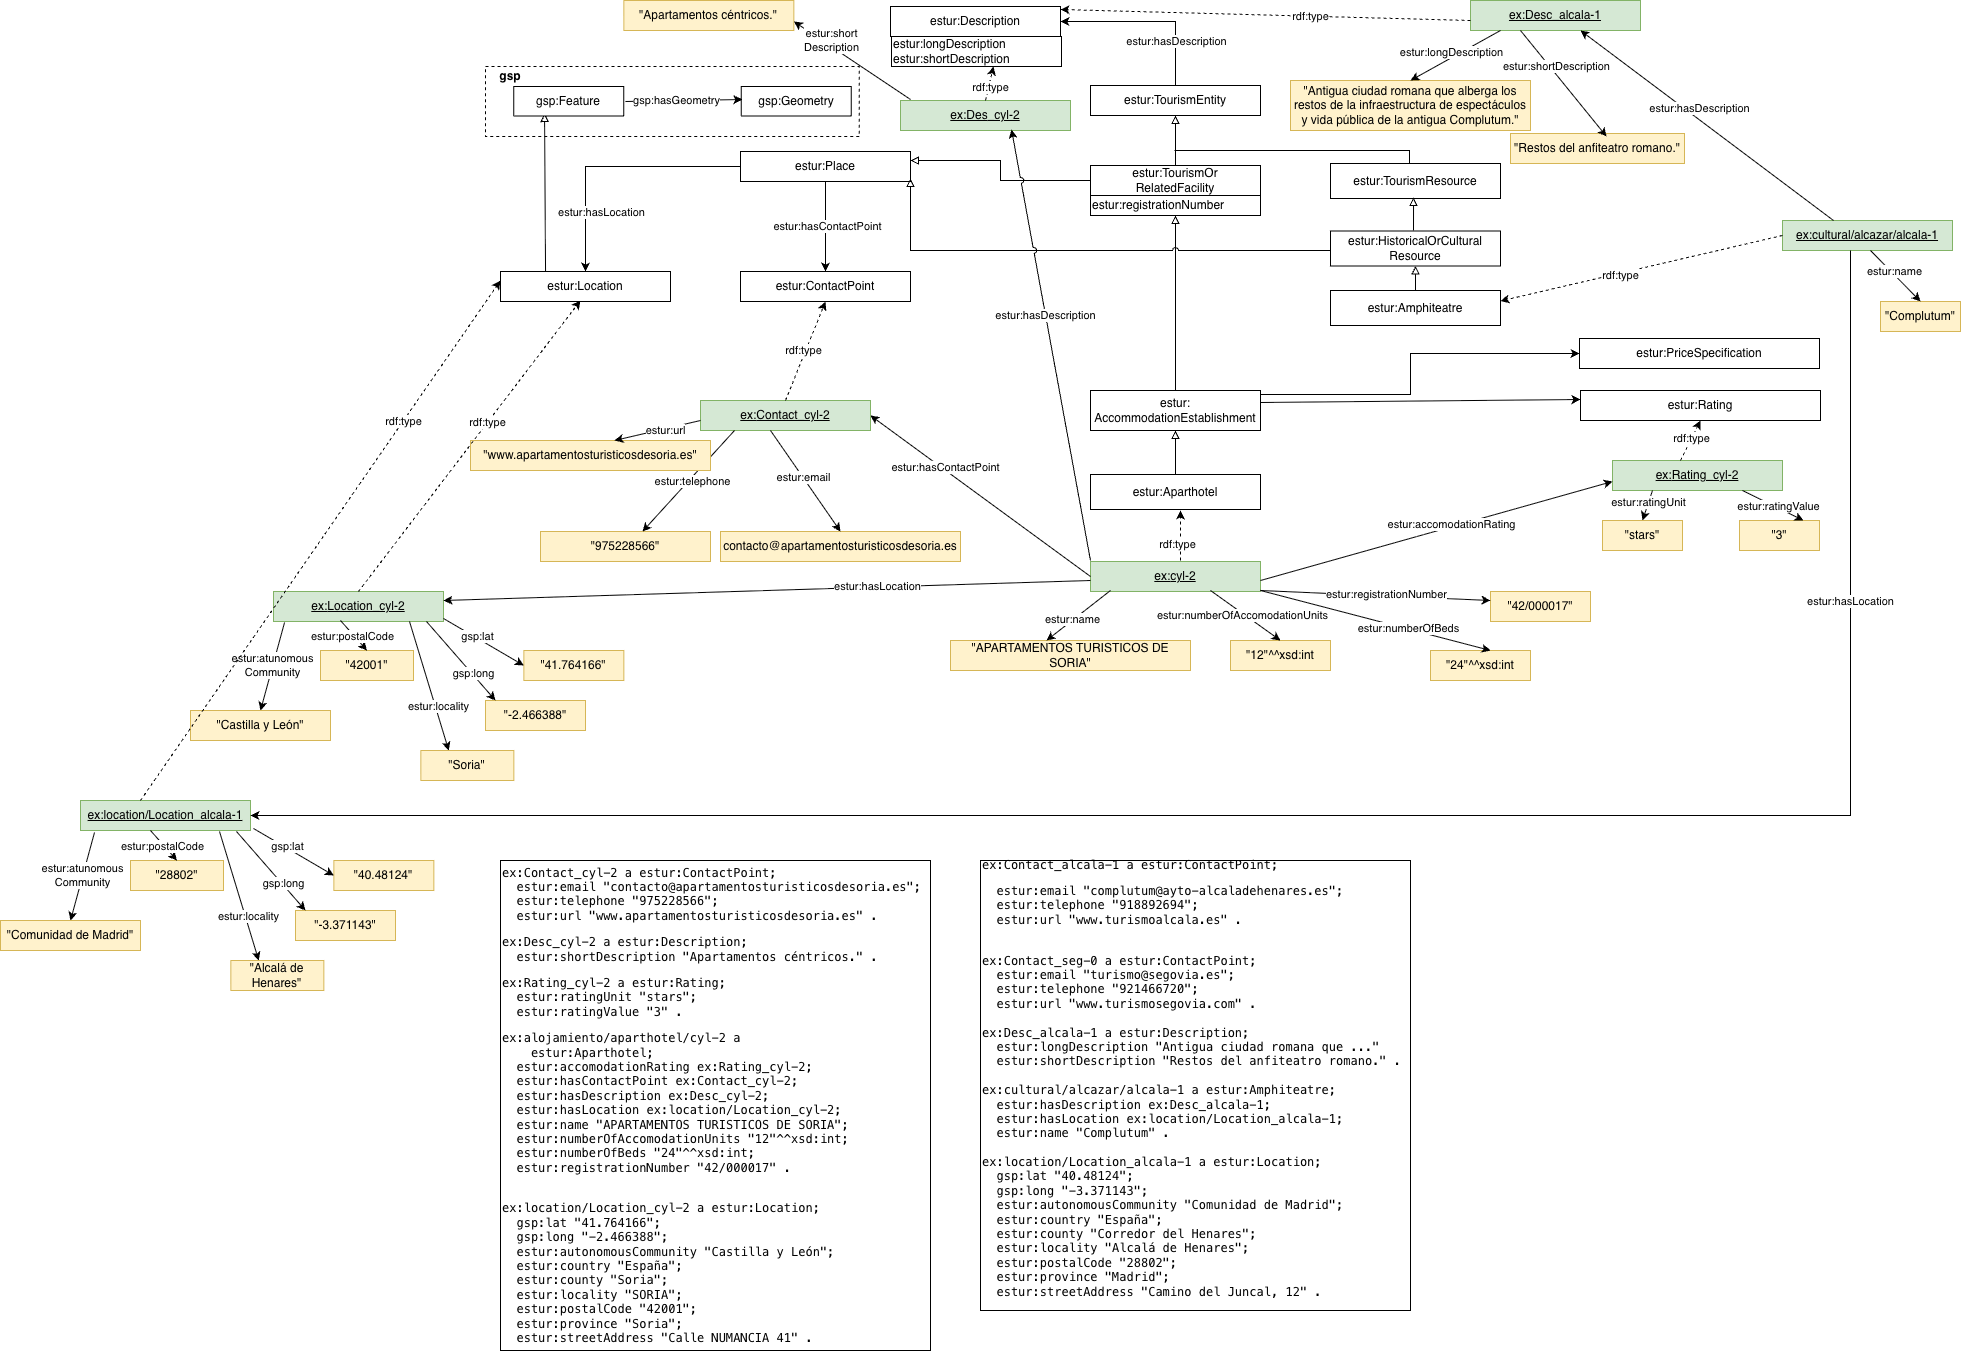
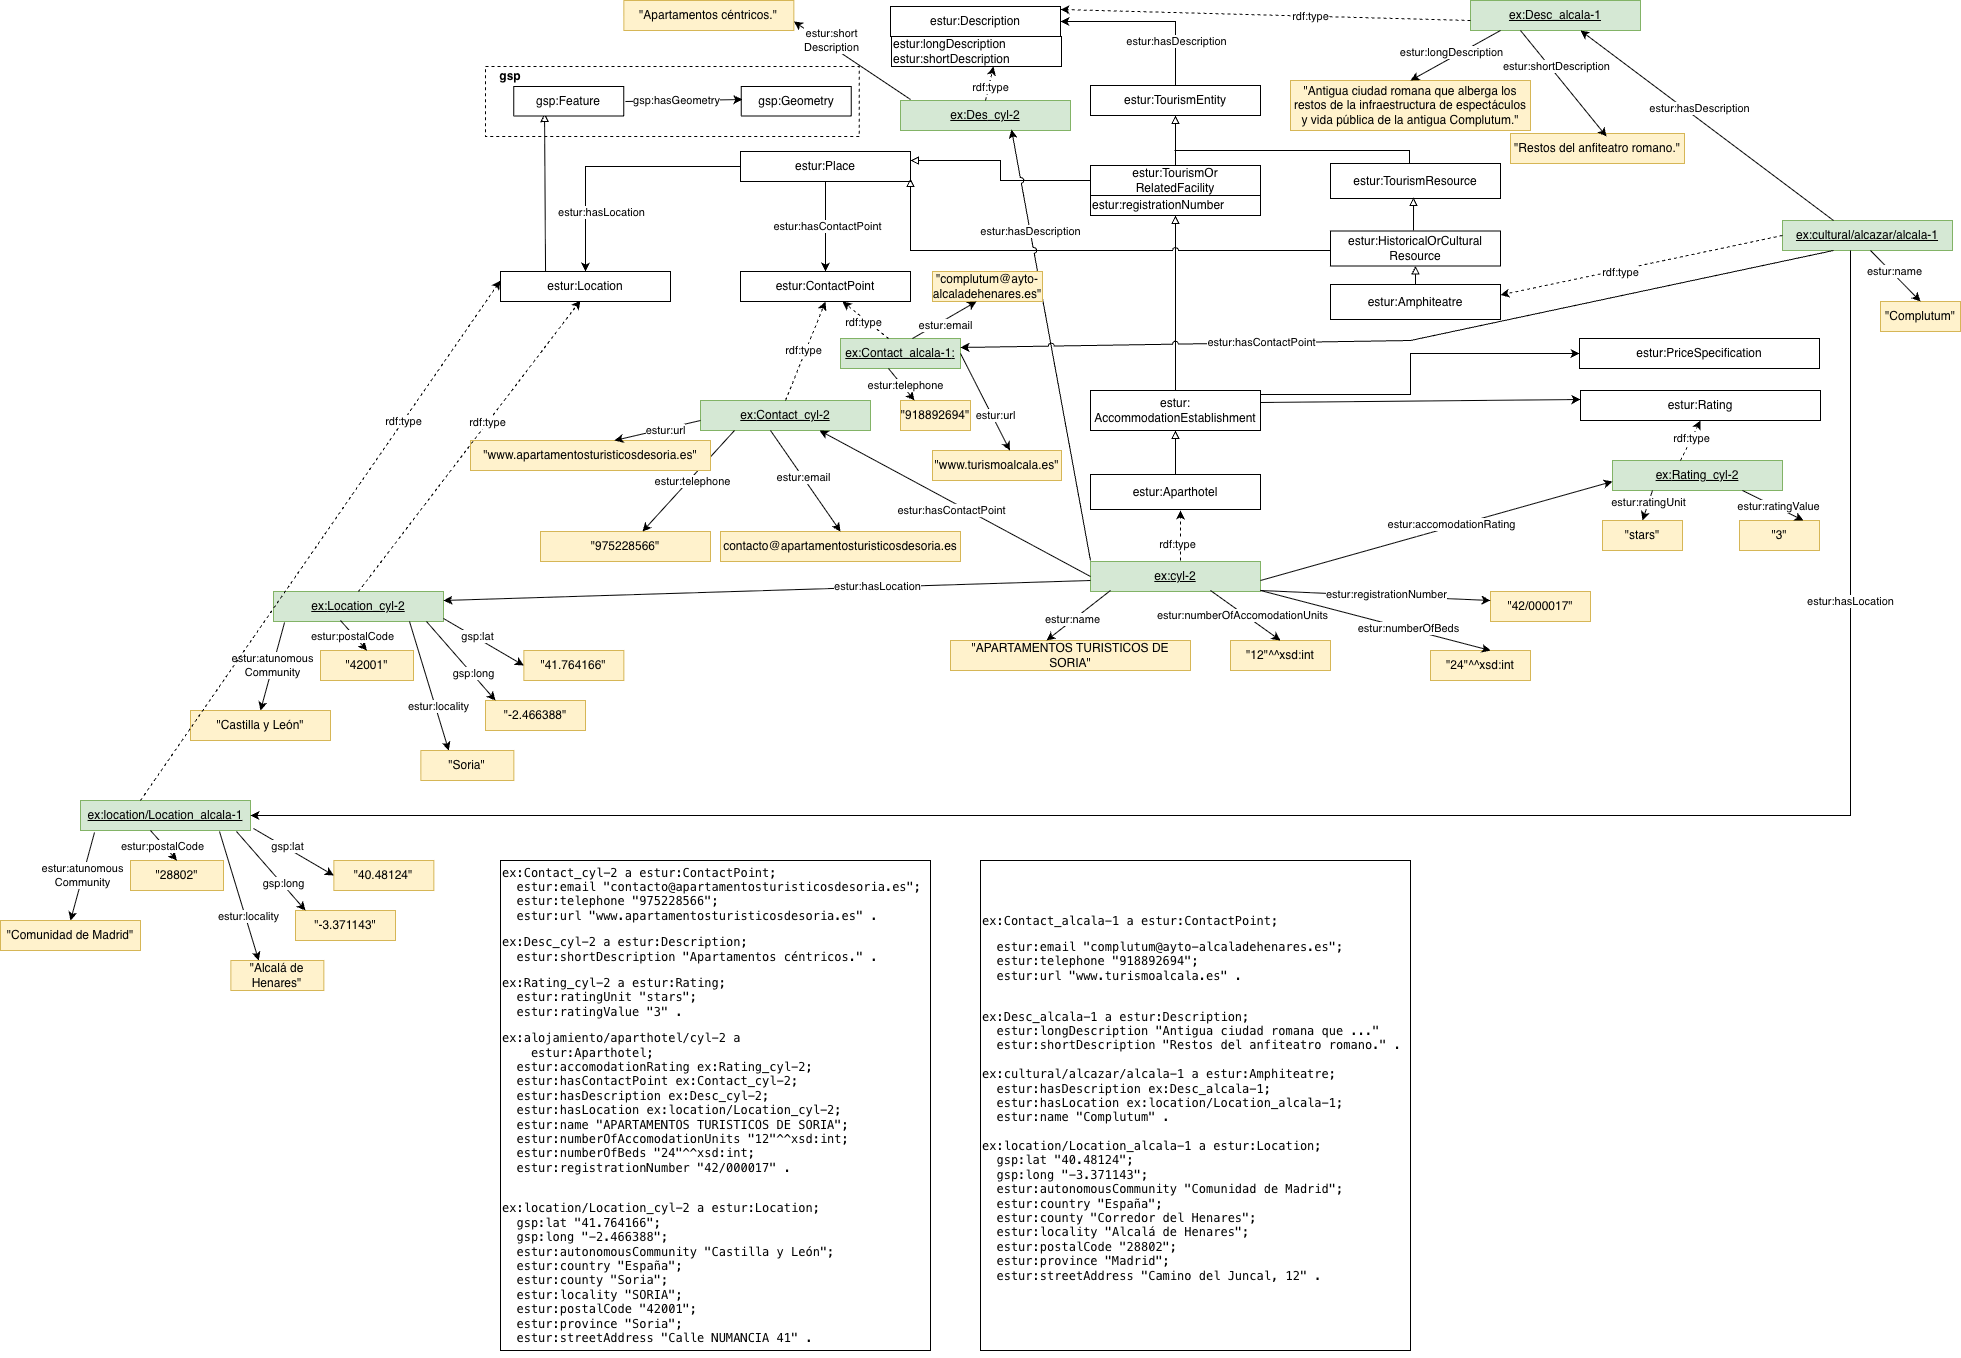
Desarrollo de descripción HTML
Se agregaron diagramas y descripción detallada a la documentación HTML

diff --git a/documentation/sections/description-es.html b/documentation/sections/description-es.html
@@ -1,2 +1,80 @@
 <h2 id="desc" class="list">Turismo: Descripci&oacute;n <span class="backlink"> volver a <a href="#toc">&iacute;ndice</a></span></h2>
-<span class="markdown">Ontología para la representación de alojamientos y puntos de interés turísticos de un municipio, que reutiliza clases y propiedades de la ontología SEGITTUR. Cubre establecimientos de alojamiento (hoteles, hostales, aparthoteles, alquileres vacacionales) con su categoría, unidades y localización, así como recursos históricos y culturales. Su propósito es proporcionar un vocabulario común para conocer y gestionar el turismo municipal, como base para su explotación a través de la Ontología de Cubos de Turismo. Los ejemplos del repositorio instancian establecimientos de alojamiento (<code>estur:AccomodationEstablishment</code> y sus subclases Hotel, Hostal, Hostel, Aparthotel y Vacation Rentals) con su categoría (<code>accomodationRating</code>), número de unidades y de plazas, número de registro, descripción, localización y punto de contacto, reutilizando las clases y propiedades de la ontología de turismo de SEGITTUR.</span>
+<span class="markdown"><p>
+Una descripción más detallada de las clases y propiedades  de la Ontología de Turismo de SEGITTUR que se han identificado para ser reutilizadas en el dominio de turismo para ciudades es la siguiente:</p>
+<ul>
+<li>Clase <code>AccomodationEstablishment</code>
+Los tipos de alojamiento son subclases: Hotel, Hostal, Hostel, Aparthotel, Vacation Rentals
+<ul>
+<li><code>AccomodationRating</code> (object property) entre un alojamiento y su clasificación</li>
+<li><code>numberOfAccomodationUnits</code> (data property). Cantidad de unidades de alojamiento, por ejemplo habitaciones</li>
+<li><code>numberOfBeds</code> (data property). Número total de camas</li>
+<li><code>registrationNumber</code> (data property). Identificador</li>
+<li><code>hasDescription</code> (object property) entre una entidad de turismo (superclase) y su description</li>
+<li><code>name</code> (data property) </li>
+<li><code>hasLocation</code> (object property) entre un lugar (superclase) y su ubicación </li>
+<li><code>hasContactPoint</code> (object property) entre un lugar (superclase) y su contacto</li>
+</ul>
+</li>
+<li>Clase <code>ContactPoint</code>
+	Contacto con el alojamiento que puede ser por correo electrónico, teléfono o una web
+	<ul>
+<li><code>email</code> (data property)</li>
+<li><code>telephone</code> (data property)</li>
+<li><code>url</code> (data property)</li>
+</ul>
+</li>
+
+<li>Clase <code>Rating</code>
+	Clasificación del alojamiento
+<ul>
+<li><code>ratingUnit</code> (data property). Unidad de la clasificación, por ejemplo "stars"</li>
+<li><code>ratingValue</code> (data property). Valor de la clasificación, por ejemplo "3"</li>
+</ul>
+</li>
+
+<li>Clase <code>Description</code>
+	Descripción corta o larga del alojamiento
+<ul>
+<li><code>longDescription</code> (data property)</li>
+<li><code>shortDescription</code> (data property)</li>
+</ul>
+</li>
+
+<li>Clase <code>Location</code>
+	Ubicación del alojamiento
+<ul>
+<li><code>autonomousCommunity</code> (data property)</li>
+<li><code>country</code> (data property)</li>
+<li><code>county</code> (data property). Comarca</li>
+<li><code>province</code> (data property)</li>
+<li><code>locality</code> (data property) </li>
+<li><code>postal code</code> (data property)</li>
+<li><code>street address</code> (data property)</li> 
+<li><code>gsp:lat</code> y <code>gsp:long</code>. Por ser subclase de <code>gsp:Feature</code> se representa las coordenadas, latitud y longitud del alojamiento</li>
+</ul>
+</li>
+
+<li>Clase <code>HistoricalOrCulturalResource</code>
+Recurso histórico o cultural. Los tipos de recurso son subclases: Alcazar, Amphiteatre, Acueduct, etc. 
+<ul>
+<li><code>name</code> (data property)</li>
+<li><code>hasLocation</code> (object property) entre un lugar (superclase) y su ubicación</li>
+<li><code>hasDescription</code> (object property) entre una entidad de turismo (superclase) y su descripción</li>
+</ul>
+</li>
+</ul>
+<span class="markdown"><p>En la Figura 1 se ilustra de forma gráfica los conceptos de la ontología de SEGITTUR que se han reutilizado:</p>
+<p><center><img src="images/diagrama-conceptual.png"/><figcaption>
+Figura 1. Modelo conceptual de la ontología</figcaption></center></p>
+<p>Uno de los conceptos centrales es  <code>estur:AccomodationEstablishment</code> (establecimiento para alojamiento), que se relaciona con otras clases tales como  <code>estur:ContactPoint</code> y <code>estur:Location</code> (al ser subclase de <code>estur:Place</code>). La clase <code>estur:Location</code> representa la ubicación del alojamiento especificada a través de su latitud, longitud, país, provincia, localidad, código postal y dirección.</p>
+
+<p>También se relaciona con <code>estur:Description</code> (al ser subclase de <code>estur:TourismEntity</code>) . La clase se relaciona con <code>estur:Rating</code> para indicar la clasificación del establecimiento en alguna unidad de medida, por ejemplo "Estrellas" y con <code>estur:PriceSpecification</code> (especificación del precio). Además tiene propiedades que se relacionan con taxonomías SKOS: <code>estur-kos:AccomodationCategory</code> (categoría de alojamiento), <code>estur-kos:typeOfAccomodationRate</code> (tipo de tarifa de alojamiento), <code>estur-kos:OffersAdditionalAccomodationService</code> (ofrece servicio adicional) y <code>estur:PriceClass</code> (categoría de precio).</p>
+
+<p>Un concepto relevante para el turismo de ciudades es el de <code>estur:HistoricalOrCulturalResource</code> (recurso histórico o cultural) que comprende los museos, monumentos, santuarios, entre otros. Es subclase de <code>estur:Place</code> por lo cual se relaciona con <code>estur:ContactPoint</code> y con <code>estur:Location</code> y también se representa su <code>estur:Description</code> al ser un tipo de <code>estur:TourismEntity</code>.
+<p>En la Figura 2 se muestran ejemplos de instancias de alojamiento y de recursos históricos o culturales, y su relaciòn con los conceptos de la ontología de SEGITTUR:</p>
+<p><center><img src="images/diagrama-ejemplos.png"/><figcaption>
+	<figcaption>Figura 2. Ejemplo de utilización de los conceptos de la Ontología de Turismo SEGITTUR</figcaption></center></p>
+	<p>Este ejemplo ilustra la utilización de la Ontología de Turismo SEGITTUR para el dominio de turismo de ciudades. Se tiene un <code>estur:AccomodationEstablishment</code> (establecimiento) con identificador "cyl-2". Este alojamiento tiene un <code>estur:ContactPoint</code> con identificador "Contact_cyl-2" y con sus propiedades de correo electrónico, url y teléfono. Tiene una <code>estur:Description</code> con una descripción corta "Apartamentos céntricos". Se relaciona con una ubicación <code>estur:Location</code> con propiedades que representan la población, "Soria", el código postal, la comunidad autónoma de "Castilla y León" y sus coordenadas de latitud y longitud.</p>
+	<p>En el diagrama se representa de forma similar al alojamiento "alcala-1", una instancia de <code>estur:HistoricalOrCulturalResource</code> (recurso histórico o cultural) que es un anfiteatro situado en Alcalá de Henares con nombre "Complutum".
+</p>
+</span>

diff --git a/documentation/sections/description-en.html b/documentation/sections/description-en.html
@@ -1,2 +1,80 @@
 <h2 id="desc" class="list">Tourism: Description <span class="backlink"> back to <a href="#toc">ToC</a></span></h2>
-<span class="markdown">Ontology for representing tourist accommodation and points of interest in a municipality, reusing classes and properties from the SEGITTUR ontology. It covers accommodation establishments (hotels, guesthouses, aparthotels, holiday rentals) with their category, units and location, as well as historical and cultural resources. The repository examples instantiate accommodation establishments (<code>estur:AccomodationEstablishment</code> and its subclasses Hotel, Hostal, Hostel, Aparthotel and Vacation Rentals) with their rating (<code>accomodationRating</code>), number of units and beds, registration number, description, location and contact point, reusing the classes and properties of the SEGITTUR tourism ontology.</span>
+<span class="markdown"><p>
+A more detailed description of the classes and properties of the SEGITTUR Tourism Ontology identified for reuse in the city tourism domain follows:</p>
+<ul>
+<li>Class <code>AccommodationEstablishment</code>
+Accommodation types are subclasses: Hotel, Hostal, Hostel, Aparthotel, Vacation Rentals
+<ul>
+<li><code>AccommodationRating</code> (object property) between an accommodation and its rating</li>
+<li><code>numberOfAccommodationUnits</code> (data property). Quantity of accommodation units, e.g., rooms</li>
+<li><code>numberOfBeds</code> (data property). Total number of beds</li>
+<li><code>registrationNumber</code> (data property). Identifier</li>
+<li><code>hasDescription</code> (object property) between a tourism entity (superclass) and its description</li>
+<li><code>name</code> (data property) </li>
+<li><code>hasLocation</code> (object property) between a place (superclass) and its location </li>
+<li><code>hasContactPoint</code> (object property) between a place (superclass) and its contact point</li>
+</ul>
+</li>
+<li>Class <code>ContactPoint</code>
+Contact details for the accommodation, which may include email, telephone, or a website
+<ul>
+<li><code>email</code> (data property)</li>
+<li><code>telephone</code> (data property)</li>
+<li><code>url</code> (data property)</li>
+</ul>
+</li>
+
+<li>Class <code>Rating</code>
+Accommodation rating
+<ul>
+<li><code>ratingUnit</code> (data property). Rating unit, e.g., "stars"</li>
+<li><code>ratingValue</code> (data property). Rating value, for example "3"</li>
+</ul>
+</li>
+
+<li>Class <code>Description</code> 
+Short or long description of the accommodation
+<ul>
+<li><code>longDescription</code> (data property)</li>
+<li><code>shortDescription</code> (data property)</li>
+</ul>
+</li>
+
+<li>Class <code>Location</code> 
+Accommodation location
+<ul>
+<li><code>autonomousCommunity</code> (data property)</li>
+<li><code>country</code> (data property)</li>
+<li><code>county</code> (data property)</li>
+<li><code>province</code> (data property)</li>
+<li><code>locality</code> (data property) </li>
+<li><code>postal code</code> (data property)</li>
+<li><code>street address</code> (data property)</li>
+<li><code>gsp:lat</code> and <code>gsp:long</code>. Because it is a subclass of <code>gsp:Feature</code>, the coordinates, latitude and longitude of the accommodation are represented</li>
+</ul>
+</li>
+
+<li>Class <code>HistoricalOrCulturalResource</code>
+Historical or cultural resource. The resource types are subclasses: Alcazar, Amphitheater, Acueduct, etc.
+<ul>
+<li><code>name</code> (data property)</li>
+<li><code>hasLocation</code> (object property) between a place (superclass) and its location</li>
+<li><code>hasDescription</code> (object property) between a tourism entity (superclass) and its description</li>
+</ul>
+</li>
+</ul>
+<span class="markdown"><p>Figure 1 graphically illustrates the concepts from the SEGITTUR ontology that have been reused:</p>
+<p><center><img src="images/diagrama-conceptual.png"/><figcaption>
+Figure 1. Conceptual model of the ontology</figcaption></center></p>
+<p>One of the central concepts is <code>estur:AccommodationEstablishment</code>, which relates to other classes such as <code>estur:ContactPoint</code> and <code>estur:Location</code> (as it is a subclass of <code>estur:Place</code>). The <code>estur:Location</code> class represents the accommodation's location, specified via its latitude, longitude, country, province, locality, postal code, and address.</p>
+
+<p>It also relates to <code>estur:Description</code> (as it is a subclass of <code>estur:TourismEntity</code>). The class relates to <code>estur:Rating</code> to indicate the establishment's classification in a specific unit of measurement—for example, "Stars"—and to <code>estur:PriceSpecification</code>.</p> It also possesses properties linked to SKOS taxonomies: <code>estur-kos:AccomodationCategory</code> (accommodation category), <code>estur-kos:typeOfAccomodationRate</code> (accommodation rate type), <code>estur-kos:OffersAdditionalAccomodationService</code> (offers additional service), and <code>estur:PriceClass</code> (price category).</p>
+
+<p>A concept relevant to city tourism is <code>estur:HistoricalOrCulturalResource</code> (historical or cultural resource), which encompasses museums, monuments, and shrines, among others. It is a subclass of <code>estur:Place</code>; consequently, it relates to <code>estur:ContactPoint</code> and <code>estur:Location</code>, and its <code>estur:Description</code> is also represented, as it is a type of <code>estur:TourismEntity</code>.
+<p>Figure 2 shows examples of accommodation and resource instances.
+	<p><center><img src="images/diagrama-ejemplos.png"/><figcaption>
+<figcaption>Figure 2. Example of the use of concepts from the SEGITTUR Tourism Ontology</figcaption></center></p>
+<p>This example illustrates the use of the SEGITTUR Tourism Ontology for the city tourism domain. It features an <code>estur:AccommodationEstablishment</code> (establishment) with the identifier "cyl-2". This accommodation has an <code>estur:ContactPoint</code> with the identifier "Contact_cyl-2" and properties for email, URL, and telephone. It includes an <code>estur:Description</code> with the short description "Apartamentos céntricos" (Centrally located apartments). It is linked to an <code>estur:Location</code> with properties representing the town ("Soria"), the postal code, the autonomous community ("Castilla y León"), and its latitude and longitude coordinates.</p>
+<p>The diagram also depicts—in a manner similar to the "alcala-1" accommodation—an instance of <code>estur:HistoricalOrCulturalResource</code> (historical or cultural resource): an amphitheater located in Alcalá de Henares named "Complutum".
+</p>
+</span>
